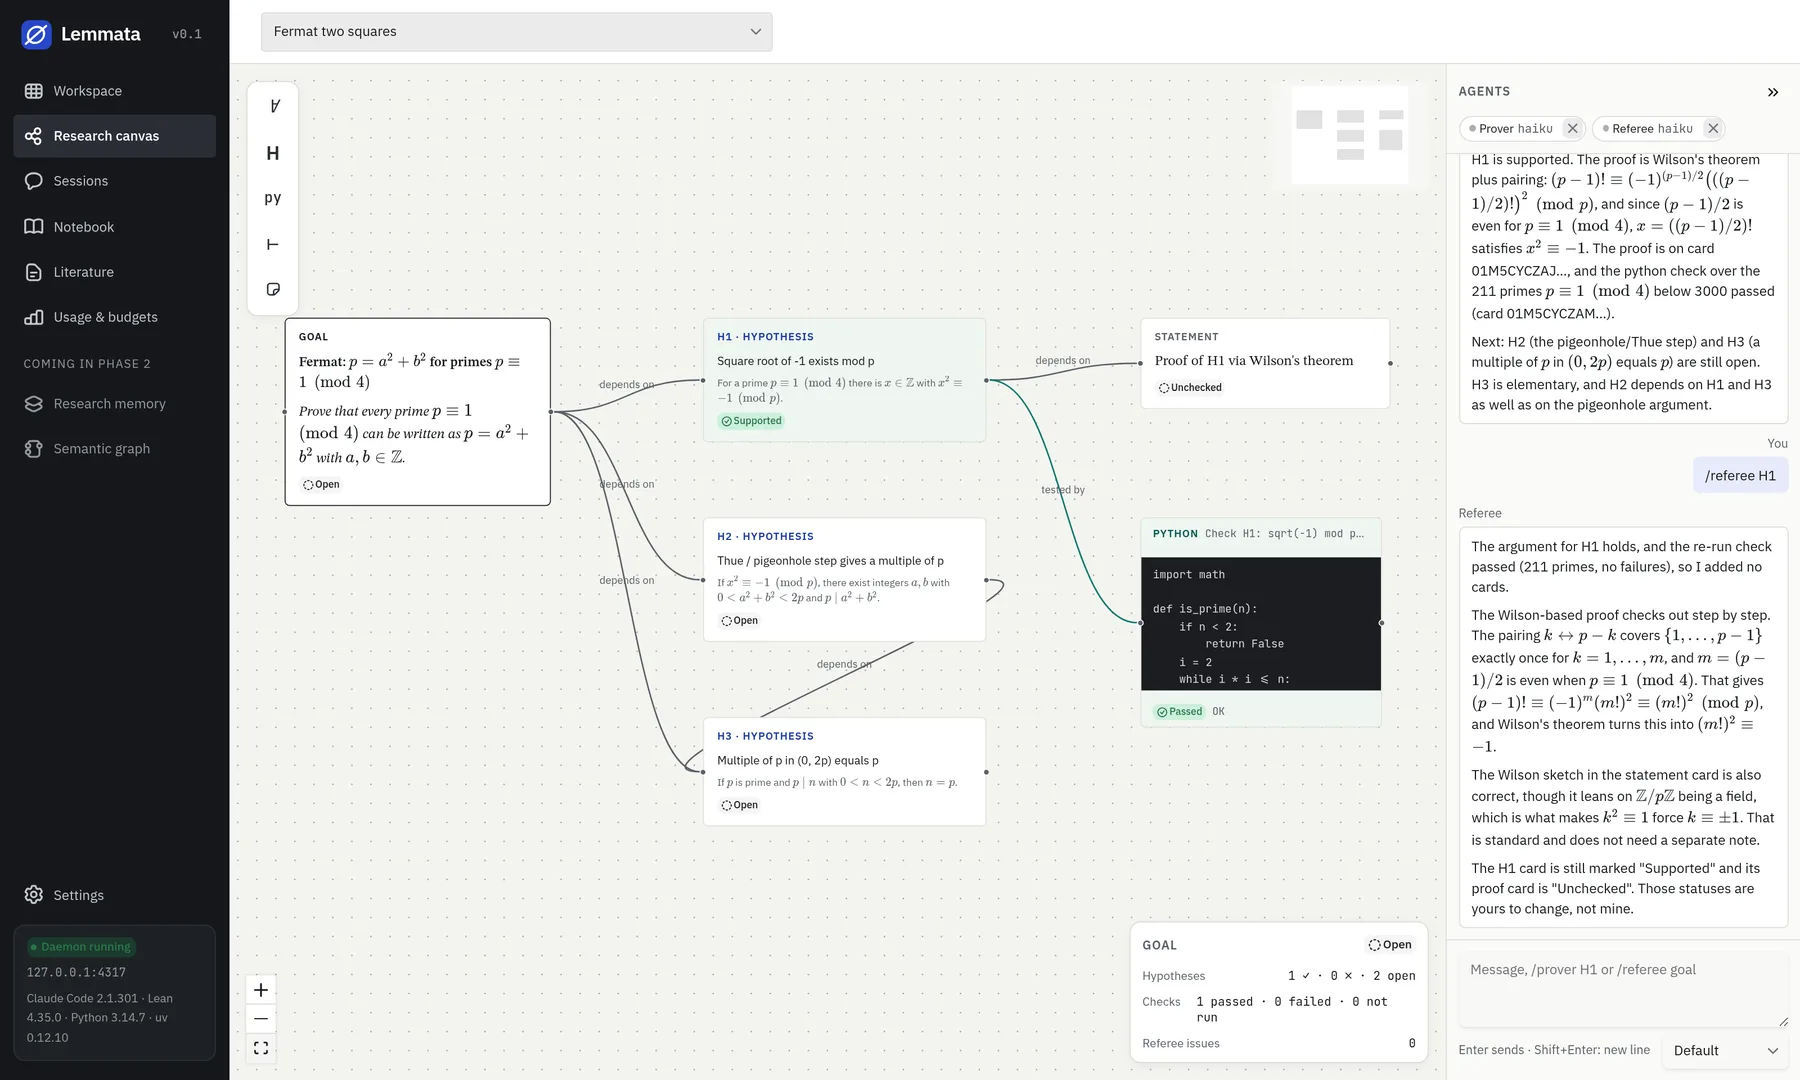
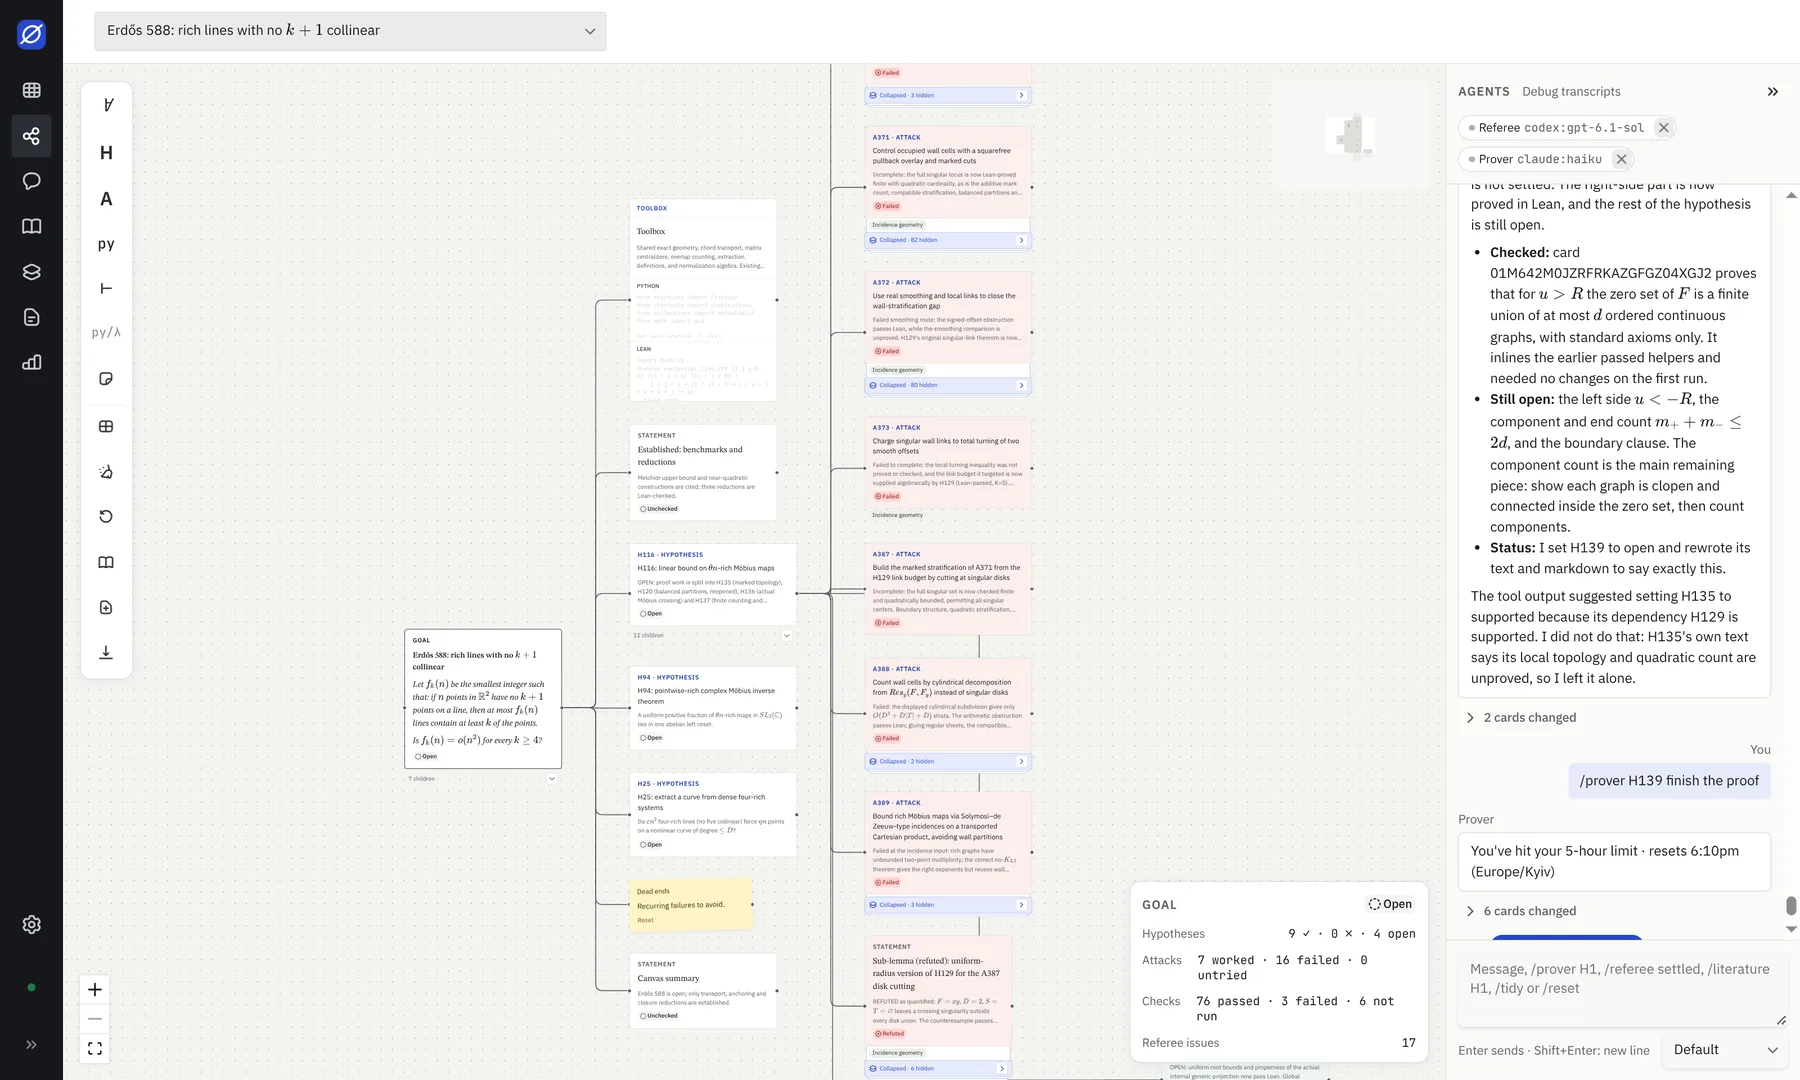
Release v0.2.0

diff --git a/apps/site/index.html b/apps/site/index.html
@@ -86,11 +86,11 @@
                 src="images/canvas-light.webp"
                 width="1800"
                 height="1080"
-                alt="A Lemmata canvas for Fermat's two-squares theorem: the Prover has split the goal into three hypotheses, proved the first with Wilson's theorem and a passing Python check, and the Referee has accepted the proof in the chat panel."
+                alt="A Lemmata canvas for Erdős problem 588: a goal fans out into hypotheses and failed attack cards, next to a Toolbox card, a progress summary and the Prover and Referee chat panel."
               />
             </picture>
             <figcaption>
-              A Prover and a Referee working on Fermat's two-squares theorem.
+              A Prover and a Referee working on Erdős problem 588.
             </figcaption>
           </figure>
         </div>
@@ -237,8 +237,9 @@ yarn dev</code></pre>
           <details>
             <summary>Can I use another AI agent?</summary>
             <p>
-              Claude Code is the first adapter. The runner is agent-agnostic by
-              design, and more adapters are planned.
+              Claude Code and Codex are supported, and you can pick a different
+              one for the Prover and the Referee. The runner is agent-agnostic
+              by design, and more adapters are planned.
             </p>
           </details>
           <details>

diff --git a/README.md b/README.md
@@ -7,10 +7,10 @@ or as a desktop app, using the Claude Code CLI for the agents.
 
 <picture>
   <source media="(prefers-color-scheme: dark)" srcset="docs/images/canvas-dark.png">
-  <img alt="A Lemmata canvas for Fermat's two-squares theorem: the Prover has split the goal into three hypotheses, proved H1 with Wilson's theorem and a passing Python check, and the Referee has accepted the proof in the chat panel." src="docs/images/canvas-light.png">
+  <img alt="A Lemmata canvas for Erdős problem 588: a goal fans out into hypotheses and failed attack cards, next to a Toolbox card, a progress summary and the Prover and Referee chat panel." src="docs/images/canvas-light.png">
 </picture>
 
-_A Prover and a Referee (both on Claude Haiku) working on Fermat's two-squares theorem._
+_A Prover (Claude Haiku) and a Referee (Codex) working on Erdős problem 588._
 
 ## What works today
 
@@ -19,6 +19,7 @@ _A Prover and a Referee (both on Claude Haiku) working on Fermat's two-squares t
 - **Checks:** run Python and Lean cards locally and see the output on the card.
 - **Agents:** enable Claude Code and Codex independently in Settings, pick a model per Prover or Referee (including different providers), and send `/prover goal` or `/referee H1` from the chat
   or from a card. Their cards appear on the canvas as they work.
+- **Literature:** add an arXiv paper as a card, fetch its source and let agents read it section by section.
 - **Progress:** hypothesis and goal statuses, plus a panel counting settled hypotheses, passed checks and referee issues.
 - **Research memory:** agents save dead ends and facts per project and read them at the start of every run; you can pin,
   edit and add entries on the Memory page.

diff --git a/CHANGELOG.md b/CHANGELOG.md
@@ -5,6 +5,23 @@ the project uses [semantic versioning](https://semver.org/).
 
 ## [Unreleased]
 
+## [0.2.0] - 2026-10-29
+
+### Added
+
+- Direct literature: paper cards from an arXiv id or link, source fetch and cache, and a `read_paper` tool so agents
+  read a paper section by section instead of only its abstract.
+- Literature cards with a verdict and suggestions on a hypothesis, and a literature check.
+- Attack cards for recorded attempts on a hypothesis, and a Toolbox card that collects reusable Python and Lean helpers
+  with searchable indexes.
+- Codex as a second agent provider, enabled independently of Claude Code, with a model choice per Prover or Referee.
+- Plots in Python cards.
+
+### Changed
+
+- Canvas cards split into per-kind components; the canvas MCP tools were refactored and the card payload updated.
+- Chat panel and Lean prompt updates, and a fix for resolving notes.
+
 ## [0.1.0] - 2026-10-20
 
 First public release.
@@ -21,5 +38,6 @@ First public release.
 - Desktop app (Tauri) for Linux, macOS and Windows that runs its own daemon.
 - Landing page on Vercel.
 
-[Unreleased]: https://github.com/stepanvanzuriak/lemmata/compare/v0.1.0...HEAD
+[Unreleased]: https://github.com/stepanvanzuriak/lemmata/compare/v0.2.0...HEAD
+[0.2.0]: https://github.com/stepanvanzuriak/lemmata/compare/v0.1.0...v0.2.0
 [0.1.0]: https://github.com/stepanvanzuriak/lemmata/releases/tag/v0.1.0
